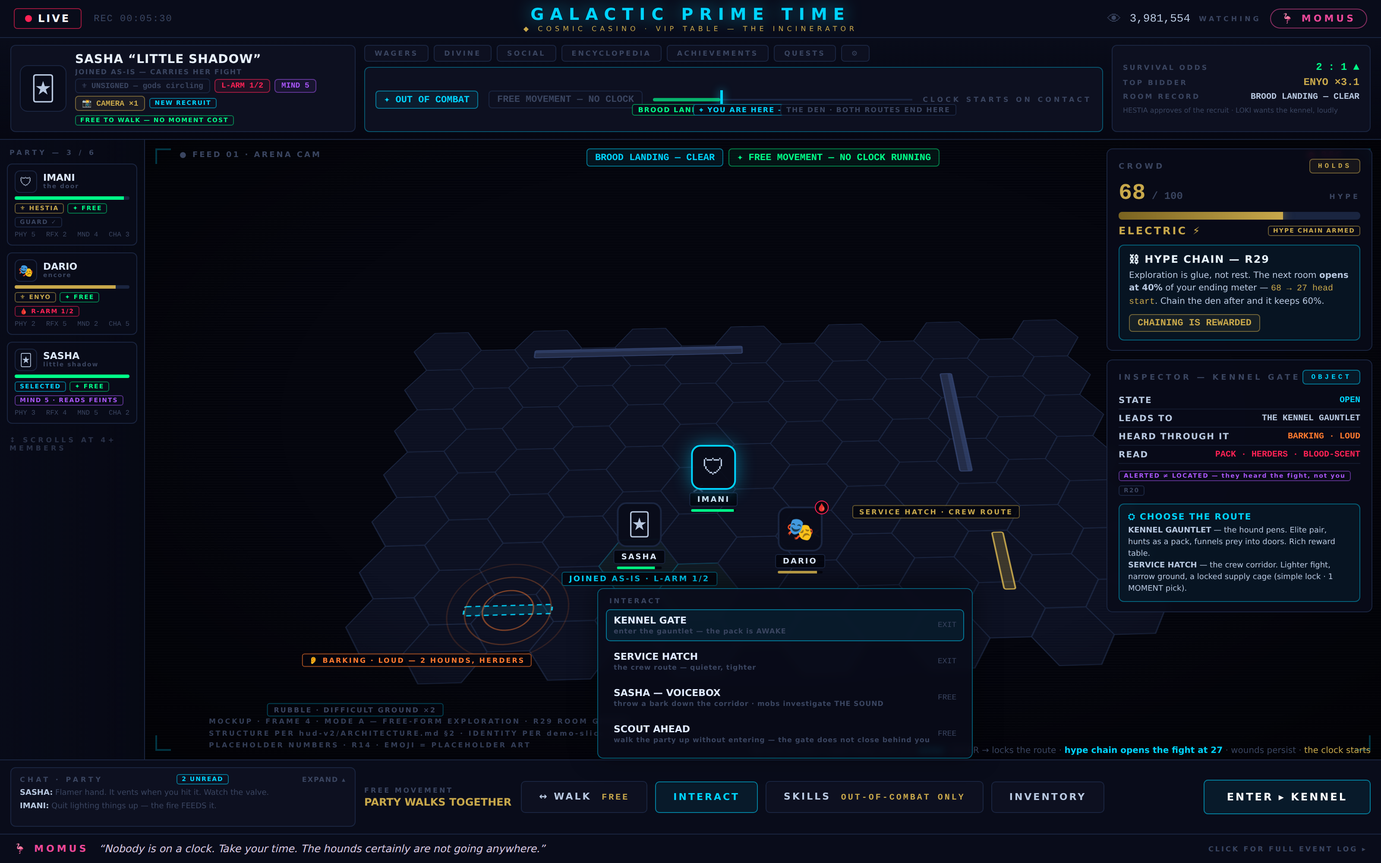
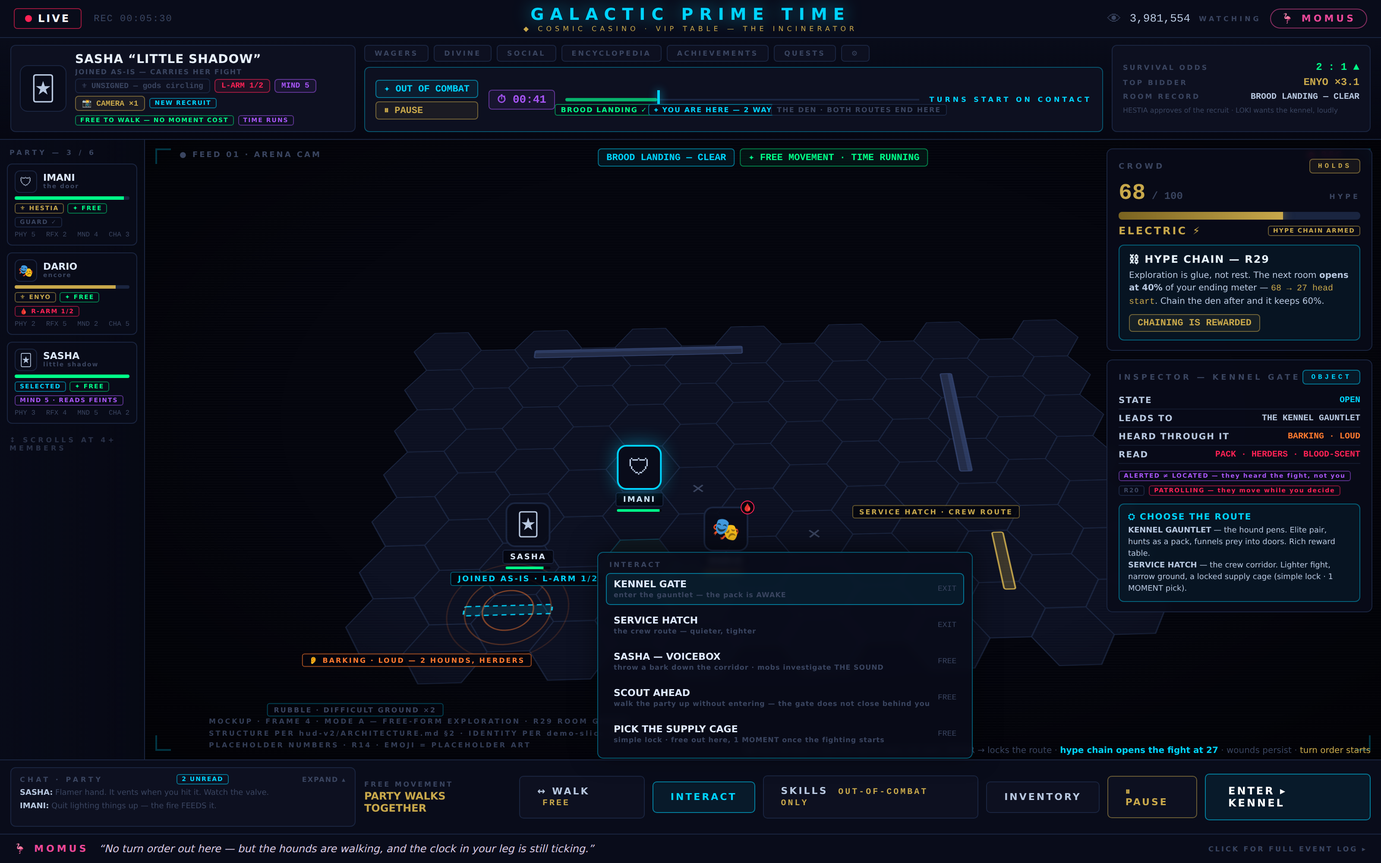
Time moves in exploration: pause is a driver concern (owner, revises R34)
Owner ruling: 'i think time should just be moving. We have moment-to-time
conversion units already established.' Confirmed — R1 (amended 2026-07-17)
already sets one tick at ~0.5 seconds of in-game time, a Clock at ~5.

- Retires my party-commands-as-the-beat patrol proposal. Standing still no
  longer freezes the room; patrols advance with time like everything else.
- REVISES R34: exploration is 'the clock runs, but there is no turn order and
  nothing costs Moments', not 'the clock is stopped'. Turn-order commands
  stay rejected out of combat.
- Determinism untouched: the beat is an explicit logged time-step command
  issued by the driver at a real-time cadence; the sim never reads a wall
  clock. PAUSE is simply the driver not issuing time steps — no sim state.
- Accepted consequence, stated rather than discovered later: a real advancing
  tick runs the existing per-tick sweeps in exploration too — burns keep
  burning while you walk, conceal/zone/free-action refresh all tick. One
  clock, one code path, no parallel time system.
- Frame 4 rebuilt to match: elapsed timer and PAUSE control, 'no turn order ·
  nothing costs Moments' replacing 'no clock', a PATROLLING warning on the
  door inspector, and lockpicking joining voicebox in the free list.

The in-flight exploration-layer story was redirected mid-run to this design.

diff --git a/docs/ux-designs/front-rework-2026-08-19/explore-branch.html b/docs/ux-designs/front-rework-2026-08-19/explore-branch.html
@@ -282,10 +282,13 @@ body{background:#000;font-family:system-ui,-apple-system,sans-serif;color:var(--
       <span class="lbl">watching</span><span class="momus-chip">🦩 MOMUS</span></div></div><div class="topstrip"><div class="selpanel"><span class="selglyph">🃏</span><div class="selbody">
               <div class="selname">SASHA “LITTLE SHADOW” <small>JOINED AS-IS — CARRIES HER FIGHT</small></div>
               <div class="selrow"><span class="pill p-mute">⚜ UNSIGNED — gods circling</span><span class="pill p-danger">L-ARM 1/2</span><span class="pill p-purple">MIND 5</span></div>
-              <div class="selrow"><span class="pill p-gold">📸 CAMERA ×1</span><span class="flag f-cyan">NEW RECRUIT</span><span class="flag f-success">FREE TO WALK — NO MOMENT COST</span></div>
+              <div class="selrow"><span class="pill p-gold">📸 CAMERA ×1</span><span class="flag f-cyan">NEW RECRUIT</span><span class="flag f-success">FREE TO WALK — NO MOMENT COST</span><span class="flag f-purple">TIME RUNS</span></div>
               </div></div><div class="topcenter"><div class="shortcuts"><span class="sc">Wagers</span><span class="sc">Divine</span><span class="sc">Social</span><span class="sc">Encyclopedia</span><span class="sc">Achievements</span><span class="sc">Quests</span><span class="sc">⚙</span></div><div class="timeline" style="border-color:rgba(0,212,255,.35)">
-      <span class="pill p-cyan">✦ OUT OF COMBAT</span>
-      <span class="pill p-mute">FREE MOVEMENT — NO CLOCK</span>
+      <div style="display:flex;flex-direction:column;gap:4px">
+        <span class="pill p-cyan">✦ OUT OF COMBAT</span>
+        <span class="pill p-gold" style="cursor:pointer">⏸ PAUSE</span>
+      </div>
+      <span class="pill p-purple" style="font-size:13px">⏱ 00:41</span>
       <div class="track" style="height:44px;margin-top:2px">
         <div class="rail-line" style="top:20px"></div>
         <span class="tl-band" style="left:0%;width:26%;top:19px;background:rgba(0,255,136,.65)"></span>
@@ -294,7 +297,7 @@ body{background:#000;font-family:system-ui,-apple-system,sans-serif;color:var(--
         <span class="tl-chip" style="left:45%;top:26px;border-color:rgba(0,212,255,.5);color:var(--cyan)">⌖ YOU ARE HERE — 2 WAYS ON</span>
         <span class="tl-chip" style="left:83%;top:26px;border-color:var(--border);color:var(--muted)">THE DEN · BOTH ROUTES END HERE</span>
       </div>
-      <span class="lbl" style="white-space:nowrap">clock starts on contact</span></div></div><div class="odds"><div class="row"><span class="k">Survival odds</span><span class="v" style="color:var(--success)">2 : 1 ▲</span></div><div class="row"><span class="k">Top bidder</span><span class="v" style="color:var(--gold)">ENYO ×3.1</span></div><div class="row"><span class="k">Room record</span><span class="v" style="font-size:10px">BROOD LANDING — CLEAR</span></div><div style="font-size:8px;color:var(--muted);line-height:1.5">HESTIA approves of the recruit · LOKI wants the kennel, loudly</div></div></div><div class="mid"><div class="rail"><div class="lbl" style="padding:0 3px">Party — 3 / 6</div><div class="pcard "><div class="hd"><span class="g">🛡</span><span class="nm">IMANI<small>the door</small></span></div><div class="hpbar"><i style="width:95%;background:var(--success)"></i></div><div class="flagrow"><span class="flag f-gold">⚜ HESTIA</span><span class="flag f-success">✦ FREE</span><span class="flag ">GUARD ✓</span></div><div class="statmini"><span>PHY 5</span><span>RFX 2</span><span>MND 4</span><span>CHA 3</span></div></div><div class="pcard "><div class="hd"><span class="g">🎭</span><span class="nm">DARIO<small>encore</small></span></div><div class="hpbar"><i style="width:88%;background:var(--gold)"></i></div><div class="flagrow"><span class="flag f-gold">⚜ ENYO</span><span class="flag f-success">✦ FREE</span><span class="flag f-danger">🩸 R-ARM 1/2</span></div><div class="statmini"><span>PHY 2</span><span>RFX 5</span><span>MND 2</span><span>CHA 5</span></div></div><div class="pcard "><div class="hd"><span class="g">🃏</span><span class="nm">SASHA<small>little shadow</small></span></div><div class="hpbar"><i style="width:100%;background:var(--success)"></i></div><div class="flagrow"><span class="flag f-cyan">SELECTED</span><span class="flag f-success">✦ FREE</span><span class="flag f-purple">MIND 5 · READS FEINTS</span></div><div class="statmini"><span>PHY 3</span><span>RFX 4</span><span>MND 5</span><span>CHA 2</span></div></div><div class="lbl" style="padding:6px 3px 0;opacity:.7">↕ scrolls at 4+ members</div></div><div class="world"><div class="stage"><div class="board"><svg width="900" height="560" viewBox="0 0 900 560"><polygon points="102.0,50.0 81.0,86.4 39.0,86.4 18.0,50.0 39.0,13.6 81.0,13.6" fill="#0c1122" fill-opacity=".9" stroke="#1a2540" stroke-width="1.2"/>
+      <span class="lbl" style="white-space:nowrap;color:var(--cyan)">turns start on contact</span></div></div><div class="odds"><div class="row"><span class="k">Survival odds</span><span class="v" style="color:var(--success)">2 : 1 ▲</span></div><div class="row"><span class="k">Top bidder</span><span class="v" style="color:var(--gold)">ENYO ×3.1</span></div><div class="row"><span class="k">Room record</span><span class="v" style="font-size:10px">BROOD LANDING — CLEAR</span></div><div style="font-size:8px;color:var(--muted);line-height:1.5">HESTIA approves of the recruit · LOKI wants the kennel, loudly</div></div></div><div class="mid"><div class="rail"><div class="lbl" style="padding:0 3px">Party — 3 / 6</div><div class="pcard "><div class="hd"><span class="g">🛡</span><span class="nm">IMANI<small>the door</small></span></div><div class="hpbar"><i style="width:95%;background:var(--success)"></i></div><div class="flagrow"><span class="flag f-gold">⚜ HESTIA</span><span class="flag f-success">✦ FREE</span><span class="flag ">GUARD ✓</span></div><div class="statmini"><span>PHY 5</span><span>RFX 2</span><span>MND 4</span><span>CHA 3</span></div></div><div class="pcard "><div class="hd"><span class="g">🎭</span><span class="nm">DARIO<small>encore</small></span></div><div class="hpbar"><i style="width:88%;background:var(--gold)"></i></div><div class="flagrow"><span class="flag f-gold">⚜ ENYO</span><span class="flag f-success">✦ FREE</span><span class="flag f-danger">🩸 R-ARM 1/2</span></div><div class="statmini"><span>PHY 2</span><span>RFX 5</span><span>MND 2</span><span>CHA 5</span></div></div><div class="pcard "><div class="hd"><span class="g">🃏</span><span class="nm">SASHA<small>little shadow</small></span></div><div class="hpbar"><i style="width:100%;background:var(--success)"></i></div><div class="flagrow"><span class="flag f-cyan">SELECTED</span><span class="flag f-success">✦ FREE</span><span class="flag f-purple">MIND 5 · READS FEINTS</span></div><div class="statmini"><span>PHY 3</span><span>RFX 4</span><span>MND 5</span><span>CHA 2</span></div></div><div class="lbl" style="padding:6px 3px 0;opacity:.7">↕ scrolls at 4+ members</div></div><div class="world"><div class="stage"><div class="board"><svg width="900" height="560" viewBox="0 0 900 560"><polygon points="102.0,50.0 81.0,86.4 39.0,86.4 18.0,50.0 39.0,13.6 81.0,13.6" fill="#0c1122" fill-opacity=".9" stroke="#1a2540" stroke-width="1.2"/>
 <polygon points="102.0,122.7 81.0,159.1 39.0,159.1 18.0,122.7 39.0,86.4 81.0,86.4" fill="#0c1122" fill-opacity=".9" stroke="#1a2540" stroke-width="1.2"/>
 <polygon points="102.0,195.5 81.0,231.9 39.0,231.9 18.0,195.5 39.0,159.1 81.0,159.1" fill="#0c1122" fill-opacity=".9" stroke="#1a2540" stroke-width="1.2"/>
 <polygon points="102.0,268.2 81.0,304.6 39.0,304.6 18.0,268.2 39.0,231.9 81.0,231.9" fill="#0c1122" fill-opacity=".9" stroke="#1a2540" stroke-width="1.2"/>
@@ -384,7 +387,7 @@ body{background:#000;font-family:system-ui,-apple-system,sans-serif;color:var(--
 <polygon points="858.0,268.2 837.0,304.6 795.0,304.6 774.0,268.2 795.0,231.9 837.0,231.9" fill="#0c1122" fill-opacity=".9" stroke="#1a2540" stroke-width="1.2"/>
 <polygon points="858.0,341.0 837.0,377.4 795.0,377.4 774.0,341.0 795.0,304.6 837.0,304.6" fill="#0c1122" fill-opacity=".9" stroke="#1a2540" stroke-width="1.2"/>
 <polygon points="858.0,413.7 837.0,450.1 795.0,450.1 774.0,413.7 795.0,377.4 837.0,377.4" fill="#0c1122" fill-opacity=".9" stroke="#1a2540" stroke-width="1.2"/>
-<polygon points="858.0,486.5 837.0,522.8 795.0,522.8 774.0,486.5 795.0,450.1 837.0,450.1" fill="#0c1122" fill-opacity=".9" stroke="#1a2540" stroke-width="1.2"/><g transform="translate(300,60) rotate(0)"><rect x="-130.0" y="-7" width="260" height="14" rx="2" fill="#232c48" stroke="#31406b" stroke-width="1.5"/><rect x="-130.0" y="-7" width="260" height="5" rx="2" fill="#31406b" opacity=".7"/></g><g transform="translate(680,200) rotate(90)"><rect x="-85.0" y="-7" width="170" height="14" rx="2" fill="#232c48" stroke="#31406b" stroke-width="1.5"/><rect x="-85.0" y="-7" width="170" height="5" rx="2" fill="#31406b" opacity=".7"/></g><g transform="translate(180,470) rotate(0)"><rect x="-45.0" y="-6" width="90" height="12" rx="2" fill="rgba(0,212,255,.12)" stroke="#00d4ff" stroke-width="1.6" stroke-dasharray="5 4"/></g><g transform="translate(700,420) rotate(90)"><rect x="-40.0" y="-6" width="80" height="12" rx="2" fill="rgba(200,168,75,.25)" stroke="#c8a84b" stroke-width="1.6" /></g><text x="375.0" y="309.61146871262497" text-anchor="middle" font-size="20" fill="#3a4560">✕</text><text x="501.0" y="382.3576026305178" text-anchor="middle" font-size="20" fill="#3a4560">✕</text><g stroke="rgba(255,122,47,.5)" fill="none" stroke-width="1.4"><circle cx="180" cy="470" r="26"/><circle cx="180" cy="470" r="44" stroke-opacity=".6"/><circle cx="180" cy="470" r="62" stroke-opacity=".3"/></g></svg></div></div><span class="groundtag" style="left:22%;top:84%;border-color:rgba(255,122,47,.6);color:var(--fire)">👂 BARKING · LOUD — 2 HOUNDS, HERDERS</span><span class="groundtag" style="left:64%;top:60%;border-color:rgba(200,168,75,.5);color:var(--gold)">SERVICE HATCH · CREW ROUTE</span><span class="groundtag" style="left:17%;top:92%;border-color:rgba(0,212,255,.3);color:var(--muted)">RUBBLE · DIFFICULT GROUND ×2</span><div class="token ally-sel" style="left:46%;top:60%"><div class="tok-g">🛡</div><span class="tok-name">IMANI</span><span class="tok-hp"><i style="width:95%;background:var(--success)"></i></span></div><div class="token " style="left:53%;top:70%"><div class="tok-g">🎭<span class="tok-conds"><span class="cond-dot" title="bleeding T1">🩸</span></span></div><span class="tok-name">DARIO</span><span class="tok-hp"><i style="width:88%;background:var(--gold)"></i></span></div><div class="token " style="left:40%;top:72%"><div class="tok-g">🃏</div><span class="tok-name">SASHA</span><span class="tok-hp"><i style="width:84%;background:var(--success)"></i></span><span class="tok-name" style="border-color:rgba(0,212,255,.4);color:var(--cyan)">JOINED AS-IS · L-ARM 1/2</span></div><div class="feed"></div><div class="vign"></div><span class="cammark cm-tl"></span><span class="cammark cm-tr"></span><span class="cammark cm-bl"></span><span class="cammark cm-br"></span><span class="feedtag">● FEED 01 · ARENA CAM</span><span class="rectag">● REC</span><div class="phasetags"><span class="pill p-cyan">BROOD LANDING — CLEAR</span><span class="pill p-success">✦ FREE MOVEMENT — NO CLOCK RUNNING</span></div></div><div class="rightcol"><div class="rpanel">
+<polygon points="858.0,486.5 837.0,522.8 795.0,522.8 774.0,486.5 795.0,450.1 837.0,450.1" fill="#0c1122" fill-opacity=".9" stroke="#1a2540" stroke-width="1.2"/><g transform="translate(300,60) rotate(0)"><rect x="-130.0" y="-7" width="260" height="14" rx="2" fill="#232c48" stroke="#31406b" stroke-width="1.5"/><rect x="-130.0" y="-7" width="260" height="5" rx="2" fill="#31406b" opacity=".7"/></g><g transform="translate(680,200) rotate(90)"><rect x="-85.0" y="-7" width="170" height="14" rx="2" fill="#232c48" stroke="#31406b" stroke-width="1.5"/><rect x="-85.0" y="-7" width="170" height="5" rx="2" fill="#31406b" opacity=".7"/></g><g transform="translate(180,470) rotate(0)"><rect x="-45.0" y="-6" width="90" height="12" rx="2" fill="rgba(0,212,255,.12)" stroke="#00d4ff" stroke-width="1.6" stroke-dasharray="5 4"/></g><g transform="translate(700,420) rotate(90)"><rect x="-40.0" y="-6" width="80" height="12" rx="2" fill="rgba(200,168,75,.25)" stroke="#c8a84b" stroke-width="1.6" /></g><text x="375.0" y="309.61146871262497" text-anchor="middle" font-size="20" fill="#3a4560">✕</text><text x="501.0" y="382.3576026305178" text-anchor="middle" font-size="20" fill="#3a4560">✕</text><g stroke="rgba(255,122,47,.5)" fill="none" stroke-width="1.4"><circle cx="180" cy="470" r="26"/><circle cx="180" cy="470" r="44" stroke-opacity=".6"/><circle cx="180" cy="470" r="62" stroke-opacity=".3"/></g></svg></div></div><span class="groundtag" style="left:22%;top:84%;border-color:rgba(255,122,47,.6);color:var(--fire)">👂 BARKING · LOUD — 2 HOUNDS, HERDERS</span><span class="groundtag" style="left:64%;top:60%;border-color:rgba(200,168,75,.5);color:var(--gold)">SERVICE HATCH · CREW ROUTE</span><span class="groundtag" style="left:17%;top:92%;border-color:rgba(0,212,255,.3);color:var(--muted)">RUBBLE · DIFFICULT GROUND ×2</span><div class="token ally-sel" style="left:40%;top:60%"><div class="tok-g">🛡</div><span class="tok-name">IMANI</span><span class="tok-hp"><i style="width:95%;background:var(--success)"></i></span></div><div class="token " style="left:47%;top:70%"><div class="tok-g">🎭<span class="tok-conds"><span class="cond-dot" title="bleeding T1">🩸</span></span></div><span class="tok-name">DARIO</span><span class="tok-hp"><i style="width:88%;background:var(--gold)"></i></span></div><div class="token " style="left:31%;top:72%"><div class="tok-g">🃏</div><span class="tok-name">SASHA</span><span class="tok-hp"><i style="width:84%;background:var(--success)"></i></span><span class="tok-name" style="border-color:rgba(0,212,255,.4);color:var(--cyan)">JOINED AS-IS · L-ARM 1/2</span></div><div class="feed"></div><div class="vign"></div><span class="cammark cm-tl"></span><span class="cammark cm-tr"></span><span class="cammark cm-bl"></span><span class="cammark cm-br"></span><span class="feedtag">● FEED 01 · ARENA CAM</span><span class="rectag">● REC</span><div class="phasetags"><span class="pill p-cyan">BROOD LANDING — CLEAR</span><span class="pill p-success">✦ FREE MOVEMENT · TIME RUNNING</span></div></div><div class="rightcol"><div class="rpanel">
       <h4>Crowd <span class="pill p-gold" style="font-size:8px">HOLDS</span></h4>
       <div class="hypehead"><span class="v">68<small> / 100</small></span><span class="lbl">hype</span></div>
       <div class="hypebar"><i style="width:68%"></i></div>
@@ -397,7 +400,8 @@ body{background:#000;font-family:system-ui,-apple-system,sans-serif;color:var(--
       <div class="part"><span class="pn">LEADS TO</span><span class="ph">THE KENNEL GAUNTLET</span></div>
       <div class="part"><span class="pn">HEARD THROUGH IT</span><span class="ph" style="color:var(--fire)">BARKING · LOUD</span></div>
       <div class="part"><span class="pn">READ</span><span class="ph" style="color:var(--danger)">PACK · HERDERS · BLOOD-SCENT</span></div>
-      <div class="knowrow"><span class="flag f-purple">ALERTED ≠ LOCATED — they heard the fight, not you</span><span class="flag ">R20</span></div>
+      <div class="knowrow"><span class="flag f-purple">ALERTED ≠ LOCATED — they heard the fight, not you</span><span class="flag ">R20</span>
+      <span class="flag f-danger">PATROLLING — they move while you decide</span></div>
       <div class="telegraph" style="border-color:rgba(0,212,255,.4);background:rgba(0,212,255,.05)">
       <div class="t" style="color:var(--cyan)">⛭ CHOOSE THE ROUTE</div>
       <div class="d"><b>KENNEL GAUNTLET</b> — the hound pens. Elite pair, hunts as a pack, funnels prey into doors.
@@ -409,13 +413,15 @@ body{background:#000;font-family:system-ui,-apple-system,sans-serif;color:var(--
       <span class="n">PARTY WALKS TOGETHER</span></div>
       <span class="abtn">↔ WALK <b class="fa-count">FREE</b></span><span class="abtn open">INTERACT</span>
       <span class="abtn">SKILLS <b class="fa-count">OUT-OF-COMBAT ONLY</b></span><span class="abtn">INVENTORY</span>
+      <span class="abtn" style="border-color:rgba(200,168,75,.5);color:var(--gold)">⏸ PAUSE</span>
       <span class="endturn" style="border-color:rgba(0,212,255,.55);background:rgba(0,212,255,.07)">ENTER ▸ KENNEL</span>
-      <div class="conseq">No turn to end — walk freely until you <b>enter</b>. ENTER → locks the route ·
-      <b>hype chain opens the fight at 27</b> · wounds persist · <span class="to">the clock starts</span></div>
+      <div class="conseq">No turn to end — but the world does not wait. ENTER → locks the route ·
+      <b>hype chain opens the fight at 27</b> · wounds persist · <span class="to">turn order starts</span></div>
       <div class="flyout" style="left:270px;border-color:rgba(0,212,255,.4)">
         <div class="fly-h">INTERACT</div>
         <div class="frow sel"><span class="fn">KENNEL GATE <small>enter the gauntlet — the pack is AWAKE</small></span><span class="fc">EXIT</span></div>
         <div class="frow"><span class="fn">SERVICE HATCH <small>the crew route — quieter, tighter</small></span><span class="fc">EXIT</span></div>
         <div class="frow"><span class="fn">SASHA — VOICEBOX <small>throw a bark down the corridor · mobs investigate THE SOUND</small></span><span class="fc">FREE</span></div>
         <div class="frow"><span class="fn">SCOUT AHEAD <small>walk the party up without entering — the gate does not close behind you</small></span><span class="fc">FREE</span></div>
-      </div></div></div><div class="ticker"><span class="who">🦩 MOMUS</span><span class="line">“Nobody is on a clock. Take your time. The hounds certainly are not going anywhere.”</span><span class="hint">CLICK FOR FULL EVENT LOG ▸</span></div><div class="watermark">MOCKUP · FRAME 4 · MODE A — FREE-FORM EXPLORATION · R29 ROOM GRAPH<br>STRUCTURE PER hud-v2/ARCHITECTURE.md §2 · IDENTITY PER demo-slice DESIGN.md<br>PLACEHOLDER NUMBERS · R14 · EMOJI = PLACEHOLDER ART</div></div></body></html>
+        <div class="frow"><span class="fn">PICK THE SUPPLY CAGE <small>simple lock · free out here, 1 MOMENT once the fighting starts</small></span><span class="fc">FREE</span></div>
+      </div></div></div><div class="ticker"><span class="who">🦩 MOMUS</span><span class="line">“No turn order out here — but the hounds are walking, and the clock in your leg is still ticking.”</span><span class="hint">CLICK FOR FULL EVENT LOG ▸</span></div><div class="watermark">MOCKUP · FRAME 4 · MODE A — FREE-FORM EXPLORATION · R29 ROOM GRAPH<br>STRUCTURE PER hud-v2/ARCHITECTURE.md §2 · IDENTITY PER demo-slice DESIGN.md<br>PLACEHOLDER NUMBERS · R14 · EMOJI = PLACEHOLDER ART</div></div></body></html>

diff --git a/docs/ux-designs/front-rework-2026-08-19/mod-center.html b/docs/ux-designs/front-rework-2026-08-19/mod-center.html
@@ -374,7 +374,7 @@ body{background:#000;font-family:system-ui,-apple-system,sans-serif;color:var(--
 <polygon points="858.0,268.2 837.0,304.6 795.0,304.6 774.0,268.2 795.0,231.9 837.0,231.9" fill="#0c1122" fill-opacity=".9" stroke="#1a2540" stroke-width="1.2"/>
 <polygon points="858.0,341.0 837.0,377.4 795.0,377.4 774.0,341.0 795.0,304.6 837.0,304.6" fill="#0c1122" fill-opacity=".9" stroke="#1a2540" stroke-width="1.2"/>
 <polygon points="858.0,413.7 837.0,450.1 795.0,450.1 774.0,413.7 795.0,377.4 837.0,377.4" fill="#0c1122" fill-opacity=".9" stroke="#1a2540" stroke-width="1.2"/>
-<polygon points="858.0,486.5 837.0,522.8 795.0,522.8 774.0,486.5 795.0,450.1 837.0,450.1" fill="#0c1122" fill-opacity=".9" stroke="#1a2540" stroke-width="1.2"/><g transform="translate(300,60) rotate(0)"><rect x="-130.0" y="-7" width="260" height="14" rx="2" fill="#232c48" stroke="#31406b" stroke-width="1.5"/><rect x="-130.0" y="-7" width="260" height="5" rx="2" fill="#31406b" opacity=".7"/></g><g transform="translate(680,200) rotate(90)"><rect x="-85.0" y="-7" width="170" height="14" rx="2" fill="#232c48" stroke="#31406b" stroke-width="1.5"/><rect x="-85.0" y="-7" width="170" height="5" rx="2" fill="#31406b" opacity=".7"/></g><g transform="translate(180,470) rotate(0)"><rect x="-45.0" y="-6" width="90" height="12" rx="2" fill="rgba(0,212,255,.12)" stroke="#00d4ff" stroke-width="1.6" stroke-dasharray="5 4"/></g><g transform="translate(700,420) rotate(90)"><rect x="-40.0" y="-6" width="80" height="12" rx="2" fill="rgba(200,168,75,.25)" stroke="#c8a84b" stroke-width="1.6" /></g><text x="375.0" y="309.61146871262497" text-anchor="middle" font-size="20" fill="#3a4560">✕</text><text x="501.0" y="382.3576026305178" text-anchor="middle" font-size="20" fill="#3a4560">✕</text><g stroke="rgba(255,122,47,.5)" fill="none" stroke-width="1.4"><circle cx="180" cy="470" r="26"/><circle cx="180" cy="470" r="44" stroke-opacity=".6"/><circle cx="180" cy="470" r="62" stroke-opacity=".3"/></g></svg></div></div><span class="groundtag" style="left:22%;top:84%;border-color:rgba(255,122,47,.6);color:var(--fire)">👂 BARKING · LOUD — 2 HOUNDS, HERDERS</span><span class="groundtag" style="left:64%;top:60%;border-color:rgba(200,168,75,.5);color:var(--gold)">SERVICE HATCH · CREW ROUTE</span><span class="groundtag" style="left:17%;top:92%;border-color:rgba(0,212,255,.3);color:var(--muted)">RUBBLE · DIFFICULT GROUND ×2</span><div class="token ally-sel" style="left:46%;top:60%"><div class="tok-g">🛡</div><span class="tok-name">IMANI</span><span class="tok-hp"><i style="width:95%;background:var(--success)"></i></span></div><div class="token " style="left:53%;top:70%"><div class="tok-g">🎭<span class="tok-conds"><span class="cond-dot" title="bleeding T1">🩸</span></span></div><span class="tok-name">DARIO</span><span class="tok-hp"><i style="width:88%;background:var(--gold)"></i></span></div><div class="token " style="left:40%;top:72%"><div class="tok-g">🃏</div><span class="tok-name">SASHA</span><span class="tok-hp"><i style="width:84%;background:var(--success)"></i></span><span class="tok-name" style="border-color:rgba(0,212,255,.4);color:var(--cyan)">JOINED AS-IS · L-ARM 1/2</span></div><div class="feed"></div><div class="vign"></div><span class="cammark cm-tl"></span><span class="cammark cm-tr"></span><span class="cammark cm-bl"></span><span class="cammark cm-br"></span><span class="feedtag">● FEED 01 · ARENA CAM</span><span class="rectag">● REC</span></div></div><div class="dim"></div><div class="popup">
+<polygon points="858.0,486.5 837.0,522.8 795.0,522.8 774.0,486.5 795.0,450.1 837.0,450.1" fill="#0c1122" fill-opacity=".9" stroke="#1a2540" stroke-width="1.2"/><g transform="translate(300,60) rotate(0)"><rect x="-130.0" y="-7" width="260" height="14" rx="2" fill="#232c48" stroke="#31406b" stroke-width="1.5"/><rect x="-130.0" y="-7" width="260" height="5" rx="2" fill="#31406b" opacity=".7"/></g><g transform="translate(680,200) rotate(90)"><rect x="-85.0" y="-7" width="170" height="14" rx="2" fill="#232c48" stroke="#31406b" stroke-width="1.5"/><rect x="-85.0" y="-7" width="170" height="5" rx="2" fill="#31406b" opacity=".7"/></g><g transform="translate(180,470) rotate(0)"><rect x="-45.0" y="-6" width="90" height="12" rx="2" fill="rgba(0,212,255,.12)" stroke="#00d4ff" stroke-width="1.6" stroke-dasharray="5 4"/></g><g transform="translate(700,420) rotate(90)"><rect x="-40.0" y="-6" width="80" height="12" rx="2" fill="rgba(200,168,75,.25)" stroke="#c8a84b" stroke-width="1.6" /></g><text x="375.0" y="309.61146871262497" text-anchor="middle" font-size="20" fill="#3a4560">✕</text><text x="501.0" y="382.3576026305178" text-anchor="middle" font-size="20" fill="#3a4560">✕</text><g stroke="rgba(255,122,47,.5)" fill="none" stroke-width="1.4"><circle cx="180" cy="470" r="26"/><circle cx="180" cy="470" r="44" stroke-opacity=".6"/><circle cx="180" cy="470" r="62" stroke-opacity=".3"/></g></svg></div></div><span class="groundtag" style="left:22%;top:84%;border-color:rgba(255,122,47,.6);color:var(--fire)">👂 BARKING · LOUD — 2 HOUNDS, HERDERS</span><span class="groundtag" style="left:64%;top:60%;border-color:rgba(200,168,75,.5);color:var(--gold)">SERVICE HATCH · CREW ROUTE</span><span class="groundtag" style="left:17%;top:92%;border-color:rgba(0,212,255,.3);color:var(--muted)">RUBBLE · DIFFICULT GROUND ×2</span><div class="token ally-sel" style="left:40%;top:60%"><div class="tok-g">🛡</div><span class="tok-name">IMANI</span><span class="tok-hp"><i style="width:95%;background:var(--success)"></i></span></div><div class="token " style="left:47%;top:70%"><div class="tok-g">🎭<span class="tok-conds"><span class="cond-dot" title="bleeding T1">🩸</span></span></div><span class="tok-name">DARIO</span><span class="tok-hp"><i style="width:88%;background:var(--gold)"></i></span></div><div class="token " style="left:31%;top:72%"><div class="tok-g">🃏</div><span class="tok-name">SASHA</span><span class="tok-hp"><i style="width:84%;background:var(--success)"></i></span><span class="tok-name" style="border-color:rgba(0,212,255,.4);color:var(--cyan)">JOINED AS-IS · L-ARM 1/2</span></div><div class="feed"></div><div class="vign"></div><span class="cammark cm-tl"></span><span class="cammark cm-tr"></span><span class="cammark cm-bl"></span><span class="cammark cm-br"></span><span class="feedtag">● FEED 01 · ARENA CAM</span><span class="rectag">● REC</span></div></div><div class="dim"></div><div class="popup">
       <div style="display:flex;align-items:center;gap:12px;padding:13px 18px;border-bottom:1px solid var(--border);background:var(--panel2)">
         <span style="font-size:16px;font-weight:900;letter-spacing:4px;color:var(--gold);text-shadow:0 0 18px rgba(200,168,75,.6)">⬡ MODIFICATION CENTER</span>
         <span class="pill p-gold">SPECIAL OFFERS — THE HOUSE MAKES THREE</span>

diff --git a/docs/ux-designs/front-rework-2026-08-19/build_mockups.py b/docs/ux-designs/front-rework-2026-08-19/build_mockups.py
@@ -761,18 +761,22 @@ def explore_board():
     return f'<div class="stage"><div class="board">{svg}</div></div>{tags}'
 
 def explore_tokens():
-    toks = [token(46, 60, "🛡", "IMANI", 95, "var(--success)", "ally-sel"),
-            token(53, 70, "🎭", "DARIO", 88, "var(--gold)", "", (("🩸", "bleeding T1"),)),
-            token(40, 72, "🃏", "SASHA", 84, "var(--success)", "", (), sub="JOINED AS-IS · L-ARM 1/2")]
+    toks = [token(40, 60, "🛡", "IMANI", 95, "var(--success)", "ally-sel"),
+            token(47, 70, "🎭", "DARIO", 88, "var(--gold)", "", (("🩸", "bleeding T1"),)),
+            token(31, 72, "🃏", "SASHA", 84, "var(--success)", "", (), sub="JOINED AS-IS · L-ARM 1/2")]
     return "".join(toks)
 
 def frame_explore():
-    # Owner ruling 2026-08-19 (decision 8): exploration is FREE-FORM, not turn-based.
-    # No clock, no Moment order, no ready/waits — the timing strip is replaced by a
-    # route breadcrumb, and the clock only starts when contact does.
+    # Owner rulings 2026-08-19 (decision 8, then the time revision): exploration is
+    # FREE-FORM, not turn-based — and TIME STILL RUNS (R1: 1 tick ~ 0.5s in-game).
+    # There is no turn order and nothing costs Moments, but the world keeps moving:
+    # patrols walk, wounds bleed. Singleplayer gets a PAUSE. Turns start on contact.
     tl = '''<div class="timeline" style="border-color:rgba(0,212,255,.35)">
-      <span class="pill p-cyan">✦ OUT OF COMBAT</span>
-      <span class="pill p-mute">FREE MOVEMENT — NO CLOCK</span>
+      <div style="display:flex;flex-direction:column;gap:4px">
+        <span class="pill p-cyan">✦ OUT OF COMBAT</span>
+        <span class="pill p-gold" style="cursor:pointer">⏸ PAUSE</span>
+      </div>
+      <span class="pill p-purple" style="font-size:13px">⏱ 00:41</span>
       <div class="track" style="height:44px;margin-top:2px">
         <div class="rail-line" style="top:20px"></div>
         <span class="tl-band" style="left:0%;width:26%;top:19px;background:rgba(0,255,136,.65)"></span>
@@ -781,7 +785,7 @@ def frame_explore():
         <span class="tl-chip" style="left:45%;top:26px;border-color:rgba(0,212,255,.5);color:var(--cyan)">⌖ YOU ARE HERE — 2 WAYS ON</span>
         <span class="tl-chip" style="left:83%;top:26px;border-color:var(--border);color:var(--muted)">THE DEN · BOTH ROUTES END HERE</span>
       </div>
-      <span class="lbl" style="white-space:nowrap">clock starts on contact</span></div>'''
+      <span class="lbl" style="white-space:nowrap;color:var(--cyan)">turns start on contact</span></div>'''
     odds = odds_panel(
         [("Survival odds", "2 : 1 ▲", "color:var(--success)"), ("Top bidder", "ENYO ×3.1", "color:var(--gold)"),
          ("Room record", "BROOD LANDING — CLEAR", "font-size:10px")],
@@ -800,7 +804,8 @@ def frame_explore():
       <div class="part"><span class="pn">LEADS TO</span><span class="ph">THE KENNEL GAUNTLET</span></div>
       <div class="part"><span class="pn">HEARD THROUGH IT</span><span class="ph" style="color:var(--fire)">BARKING · LOUD</span></div>
       <div class="part"><span class="pn">READ</span><span class="ph" style="color:var(--danger)">PACK · HERDERS · BLOOD-SCENT</span></div>
-      <div class="knowrow">{flag("f-purple","ALERTED ≠ LOCATED — they heard the fight, not you")}{flag("","R20")}</div>
+      <div class="knowrow">{flag("f-purple","ALERTED ≠ LOCATED — they heard the fight, not you")}{flag("","R20")}
+      {flag("f-danger","PATROLLING — they move while you decide")}</div>
       <div class="telegraph" style="border-color:rgba(0,212,255,.4);background:rgba(0,212,255,.05)">
       <div class="t" style="color:var(--cyan)">⛭ CHOOSE THE ROUTE</div>
       <div class="d"><b>KENNEL GAUNTLET</b> — the hound pens. Elite pair, hunts as a pack, funnels prey into doors.
@@ -810,28 +815,30 @@ def frame_explore():
       <span class="n">PARTY WALKS TOGETHER</span></div>
       <span class="abtn">↔ WALK <b class="fa-count">FREE</b></span><span class="abtn open">INTERACT</span>
       <span class="abtn">SKILLS <b class="fa-count">OUT-OF-COMBAT ONLY</b></span><span class="abtn">INVENTORY</span>
+      <span class="abtn" style="border-color:rgba(200,168,75,.5);color:var(--gold)">⏸ PAUSE</span>
       <span class="endturn" style="border-color:rgba(0,212,255,.55);background:rgba(0,212,255,.07)">ENTER ▸ KENNEL</span>
-      <div class="conseq">No turn to end — walk freely until you <b>enter</b>. ENTER → locks the route ·
-      <b>hype chain opens the fight at 27</b> · wounds persist · <span class="to">the clock starts</span></div>
+      <div class="conseq">No turn to end — but the world does not wait. ENTER → locks the route ·
+      <b>hype chain opens the fight at 27</b> · wounds persist · <span class="to">turn order starts</span></div>
       <div class="flyout" style="left:270px;border-color:rgba(0,212,255,.4)">
         <div class="fly-h">INTERACT</div>
         <div class="frow sel"><span class="fn">KENNEL GATE <small>enter the gauntlet — the pack is AWAKE</small></span><span class="fc">EXIT</span></div>
         <div class="frow"><span class="fn">SERVICE HATCH <small>the crew route — quieter, tighter</small></span><span class="fc">EXIT</span></div>
         <div class="frow"><span class="fn">SASHA — VOICEBOX <small>throw a bark down the corridor · mobs investigate THE SOUND</small></span><span class="fc">FREE</span></div>
         <div class="frow"><span class="fn">SCOUT AHEAD <small>walk the party up without entering — the gate does not close behind you</small></span><span class="fc">FREE</span></div>
+        <div class="frow"><span class="fn">PICK THE SUPPLY CAGE <small>simple lock · free out here, 1 MOMENT once the fighting starts</small></span><span class="fc">FREE</span></div>
       </div></div>'''
     body = (bbar(rec="00:05:30", watching="3,981,554")
             + f'''<div class="topstrip"><div class="selpanel"><span class="selglyph">🃏</span><div class="selbody">
               <div class="selname">SASHA “LITTLE SHADOW” <small>JOINED AS-IS — CARRIES HER FIGHT</small></div>
               <div class="selrow">{pill("p-mute","⚜ UNSIGNED — gods circling")}{pill("p-danger","L-ARM 1/2")}{pill("p-purple","MIND 5")}</div>
-              <div class="selrow">{pill("p-gold","📸 CAMERA ×1")}{flag("f-cyan","NEW RECRUIT")}{flag("f-success","FREE TO WALK — NO MOMENT COST")}</div>
+              <div class="selrow">{pill("p-gold","📸 CAMERA ×1")}{flag("f-cyan","NEW RECRUIT")}{flag("f-success","FREE TO WALK — NO MOMENT COST")}{flag("f-purple","TIME RUNS")}</div>
               </div></div><div class="topcenter">{shortcuts()}{tl}</div>{odds}</div>'''
             + f'<div class="mid">{rail_party(active="none", sasha_state="SELECTED")}'
             + world(explore_board(), explore_tokens(),
-                    '<div class="phasetags">' + pill("p-cyan", "BROOD LANDING — CLEAR") + pill("p-success", "✦ FREE MOVEMENT — NO CLOCK RUNNING") + "</div>")
+                    '<div class="phasetags">' + pill("p-cyan", "BROOD LANDING — CLEAR") + pill("p-success", "✦ FREE MOVEMENT · TIME RUNNING") + "</div>")
             + f'<div class="rightcol">{right}{inspector}</div></div>'
             + f'<div class="bottomstrip">{chat_panel()}{launcher_exp}</div>'
-            + ticker("“Nobody is on a clock. Take your time. The hounds certainly are not going anywhere.”")
+            + ticker("“No turn order out here — but the hounds are walking, and the clock in your leg is still ticking.”")
             + watermark("FRAME 4 · MODE A — FREE-FORM EXPLORATION · R29 ROOM GRAPH"))
     return page("HUD v2 — Mode A (exploration)", body)
 

diff --git a/docs/rules-addendum.md b/docs/rules-addendum.md
@@ -2061,13 +2061,24 @@ the mockup gate. Numbers PLACEHOLDER (R14) as always.
 - **Mobs PATROL during exploration (owner).** Enemies are no longer statues waiting on
   their staged hex; they move, and their eyelines move with them (R34 cone semantics —
   a patrolling cone stays NEUTRAL until it has someone).
-  * **PROVISIONAL (mine, flagged — the clock problem):** exploration has no tick, so
-    *something* must advance a patrol. The build takes **the party's own exploration
-    commands as the beat**: each party walk grants each patrolling mob one step. This
-    keeps determinism (patrols are a pure function of the command log), makes creeping
-    genuinely slower than sprinting past, and has one property worth an owner glance —
-    **standing still freezes the room**, which rewards holding position to time a gap.
-    Alternatives if disliked: an explicit "wait" command, or steps-per-distance-moved.
+  * **RULED — TIME JUST MOVES (owner, 2026-08-19):** *"i think time should just be
+    moving. We have moment-to-time conversion units already established."* Correct — R1
+    (amended 2026-07-17) already makes **one tick ≈ 0.5 seconds of in-game time**, a
+    Clock ≈ 5 fictional seconds. My party-commands-as-the-beat proposal is **retired**;
+    standing still does NOT freeze the room, and patrols advance with time like
+    everything else.
+  * **This REVISES R34.** R34 said exploration advances no tick. It does now:
+    **exploration is "the clock runs, but there is no turn order and nothing costs
+    Moments"** — not "the clock is stopped". Turn order (declare / reaction / combined /
+    ai_decide) still has no meaning out of combat and stays rejected.
+  * **Determinism is untouched.** The beat is an explicit **logged time-step command**
+    issued by the driver at a real-time cadence; the sim never reads a wall clock and
+    stays a pure function of (seed, ordered command log). **PAUSE is simply the driver
+    not issuing time steps** — singleplayer gets it for free, and it needs no sim state.
+  * **Consequence, deliberately accepted:** a real advancing tick means the existing
+    per-tick sweeps run in exploration too — condition timers (a burn keeps burning
+    while you walk), stealth/conceal sweeps, zone durations, and the per-tick
+    free-action refresh. One clock, one code path; no parallel time system.
 - **The crowd watches exploration too (owner).** A free-form walk **can** feed hype
   when something is at stake. Ruled sources: **danger nearby**, **good stealth**,
   **approaching a large boss**, and **cross-party meetings**. Idle walking through a

diff --git a/docs/gdd/decision-log.md b/docs/gdd/decision-log.md
@@ -490,9 +490,13 @@ Answering the four gaps R34's exploration story named, plus the cadence question
 - **Voicebox and lockpicking work in exploration** — the resolver-side cost waiver is
   theirs; free while the clock is stopped, full R3 costs once combat starts.
 - **Mobs patrol during exploration** — enemies move and their eyelines move with them.
-  What advances a patrol without a clock is my call, flagged: the party's own
-  exploration commands are the beat (one mob step per party walk), which makes standing
-  still freeze the room.
+  My party-commands-as-the-beat proposal was **retired by the owner the same day**:
+  *"time should just be moving"* — R1's conversion (1 tick ≈ 0.5s in-game) already
+  supports it, so exploration runs the real clock with no turn order and no Moment
+  costs, and **singleplayer gets a PAUSE** (which is just the driver not issuing time
+  steps — no sim state). This revises R34's "no tick advance"; the accepted consequence
+  is that per-tick sweeps (burns, conceal, zones, the free-action refresh) run during
+  exploration too.
 - **The crowd watches exploration** — a free-form walk can feed hype when something is
   at stake: danger nearby, good stealth, approaching a large boss, cross-party
   meetings. Idle walking through a cleared room pays nothing. Cross-party meetings are
